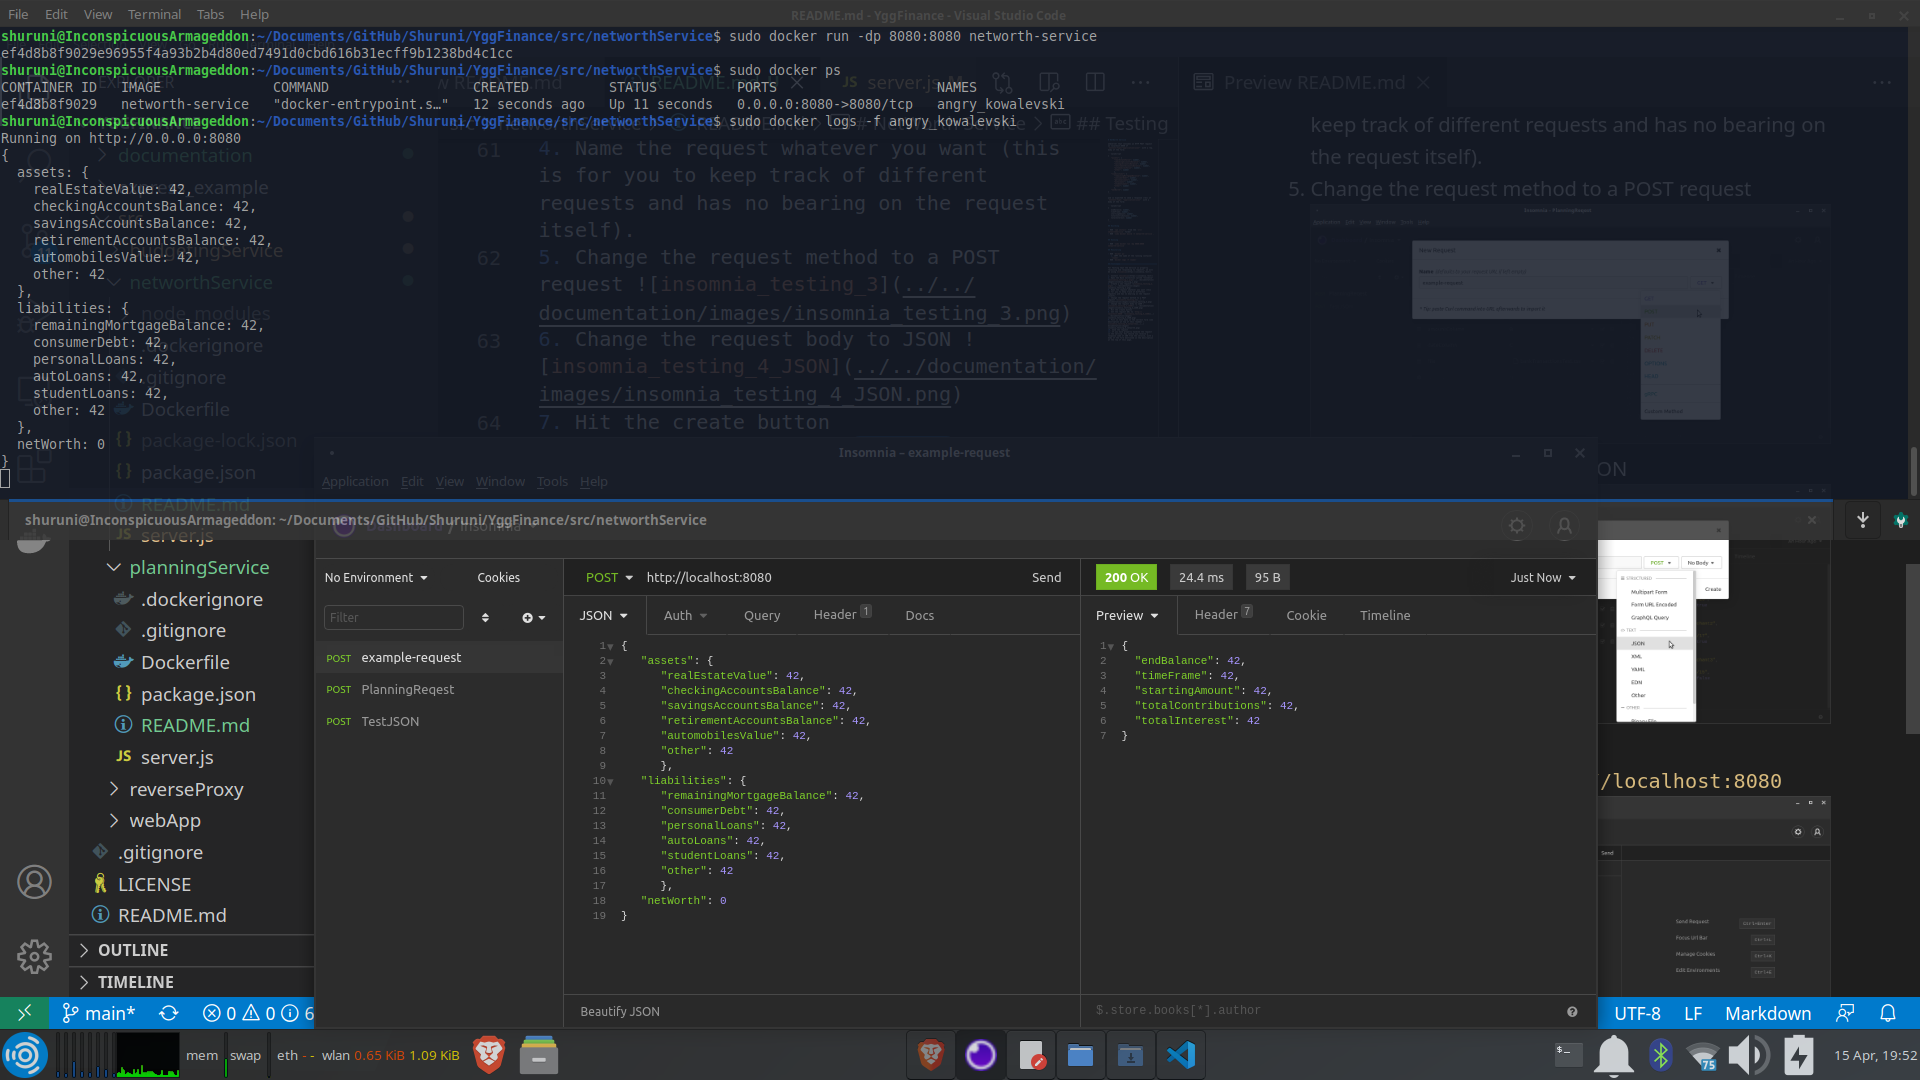
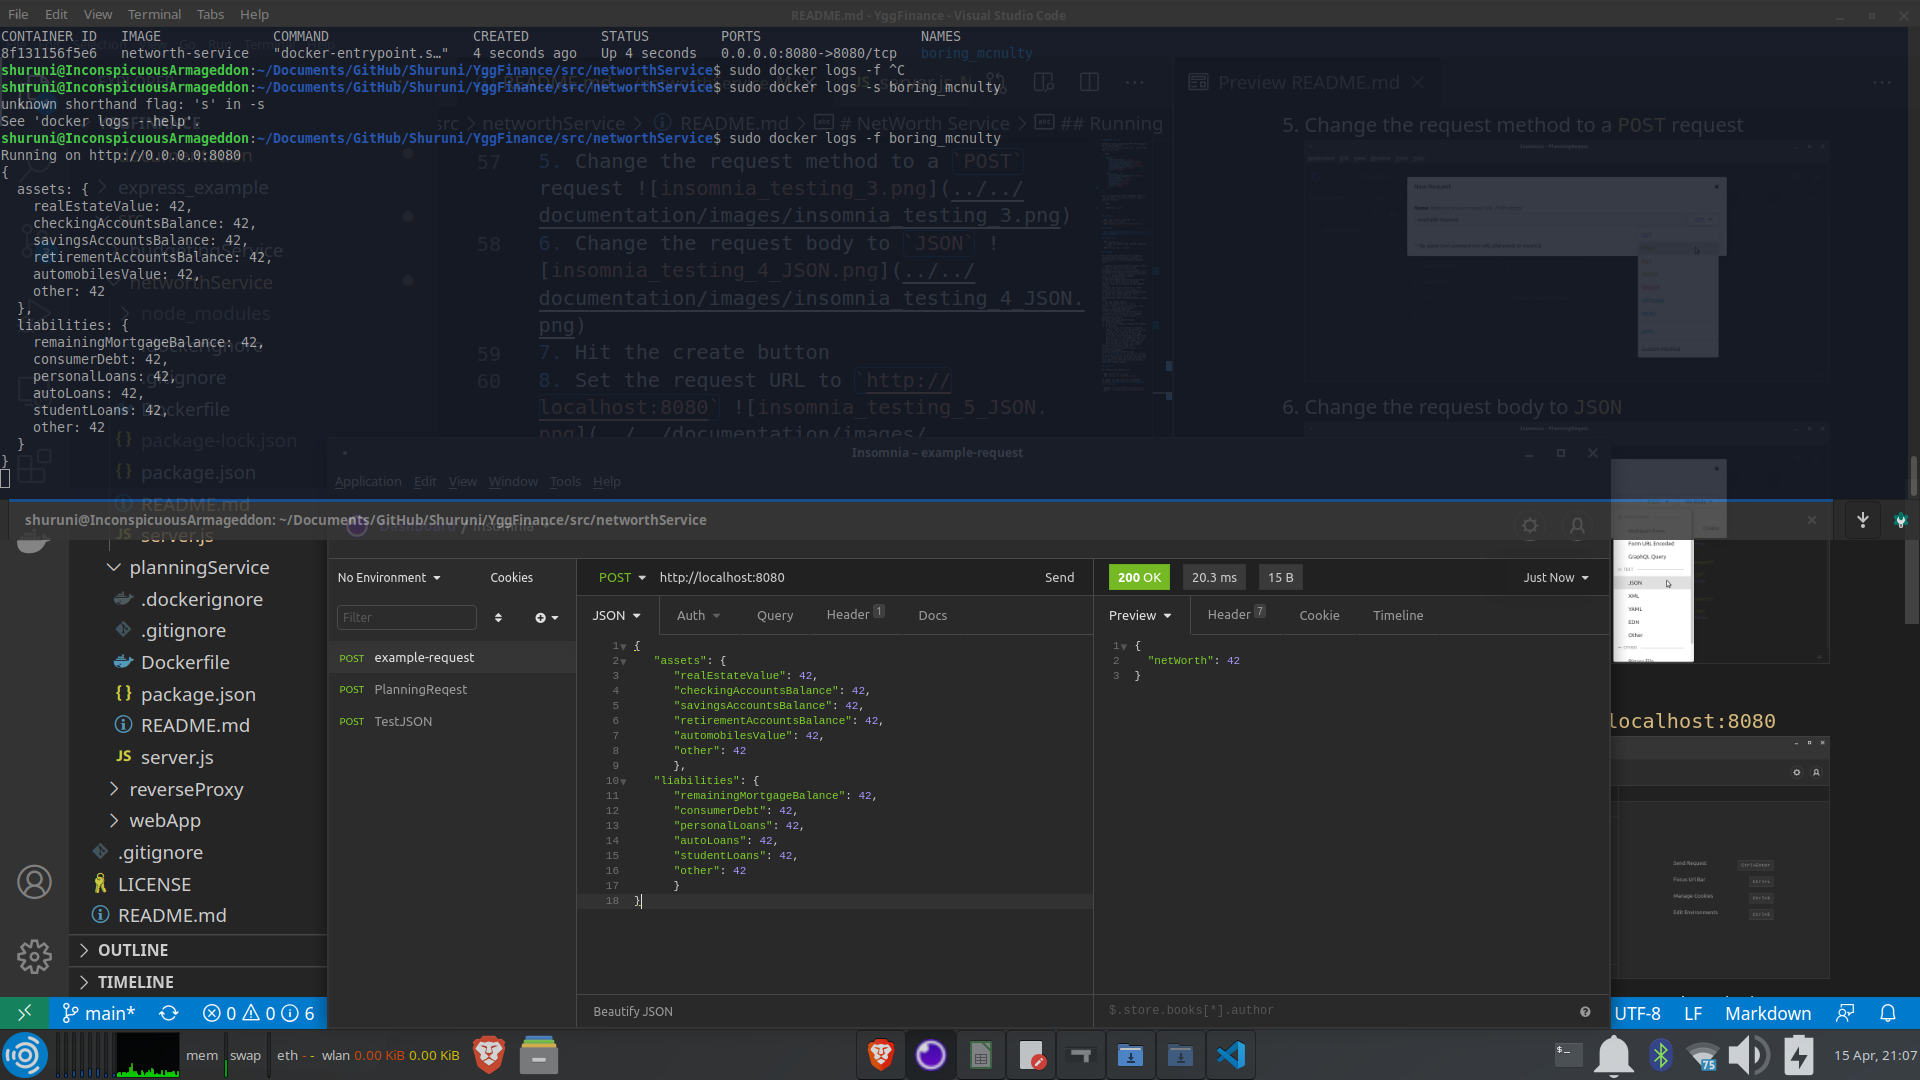
fixed documentation bug in networthService

diff --git a/src/networthService/server.js b/src/networthService/server.js
@@ -12,12 +12,8 @@ app.use(express.json()) // for parsing application/json
 app.post('/', function (req, res, next) {
     console.log(req.body)
     res.json({
-      endBalance: 42,
-      timeFrame: 42,
-      startingAmount: 42,
-      totalContributions: 42,
-      totalInterest: 42
-   })
+      netWorth: 42
+    })
   });
 
 // app.post('/', (req, res) => {

diff --git a/src/networthService/README.md b/src/networthService/README.md
@@ -19,8 +19,7 @@ webserver that consumes an HTTP POST request on localhost:8080 of `Content-Type=
       "autoLoans": number,
       "studentLoans": number,
       "other": number
-      },
-   "netWorth": number
+      }
 }
 ```
 
@@ -28,11 +27,7 @@ and is expected to send a response (res) of `Content-Type: "application/json"` w
 
 ```JSON
 {
-   "endBalance": number,
-   "timeFrame": number,
-   "startingAmount": number,
-   "totalContributions": number,
-   "totalInterest": number
+   "netWorth": number
 }
 ```
 

diff --git a/src/planningService/README.md b/src/planningService/README.md
@@ -1,4 +1,4 @@
-# Budgeting Service
+# Planning Service
 
 webserver that consumes an HTTP POST request on localhost:8080 of `Content-Type="multipart/form-data"` with a req.body of the form:
 
